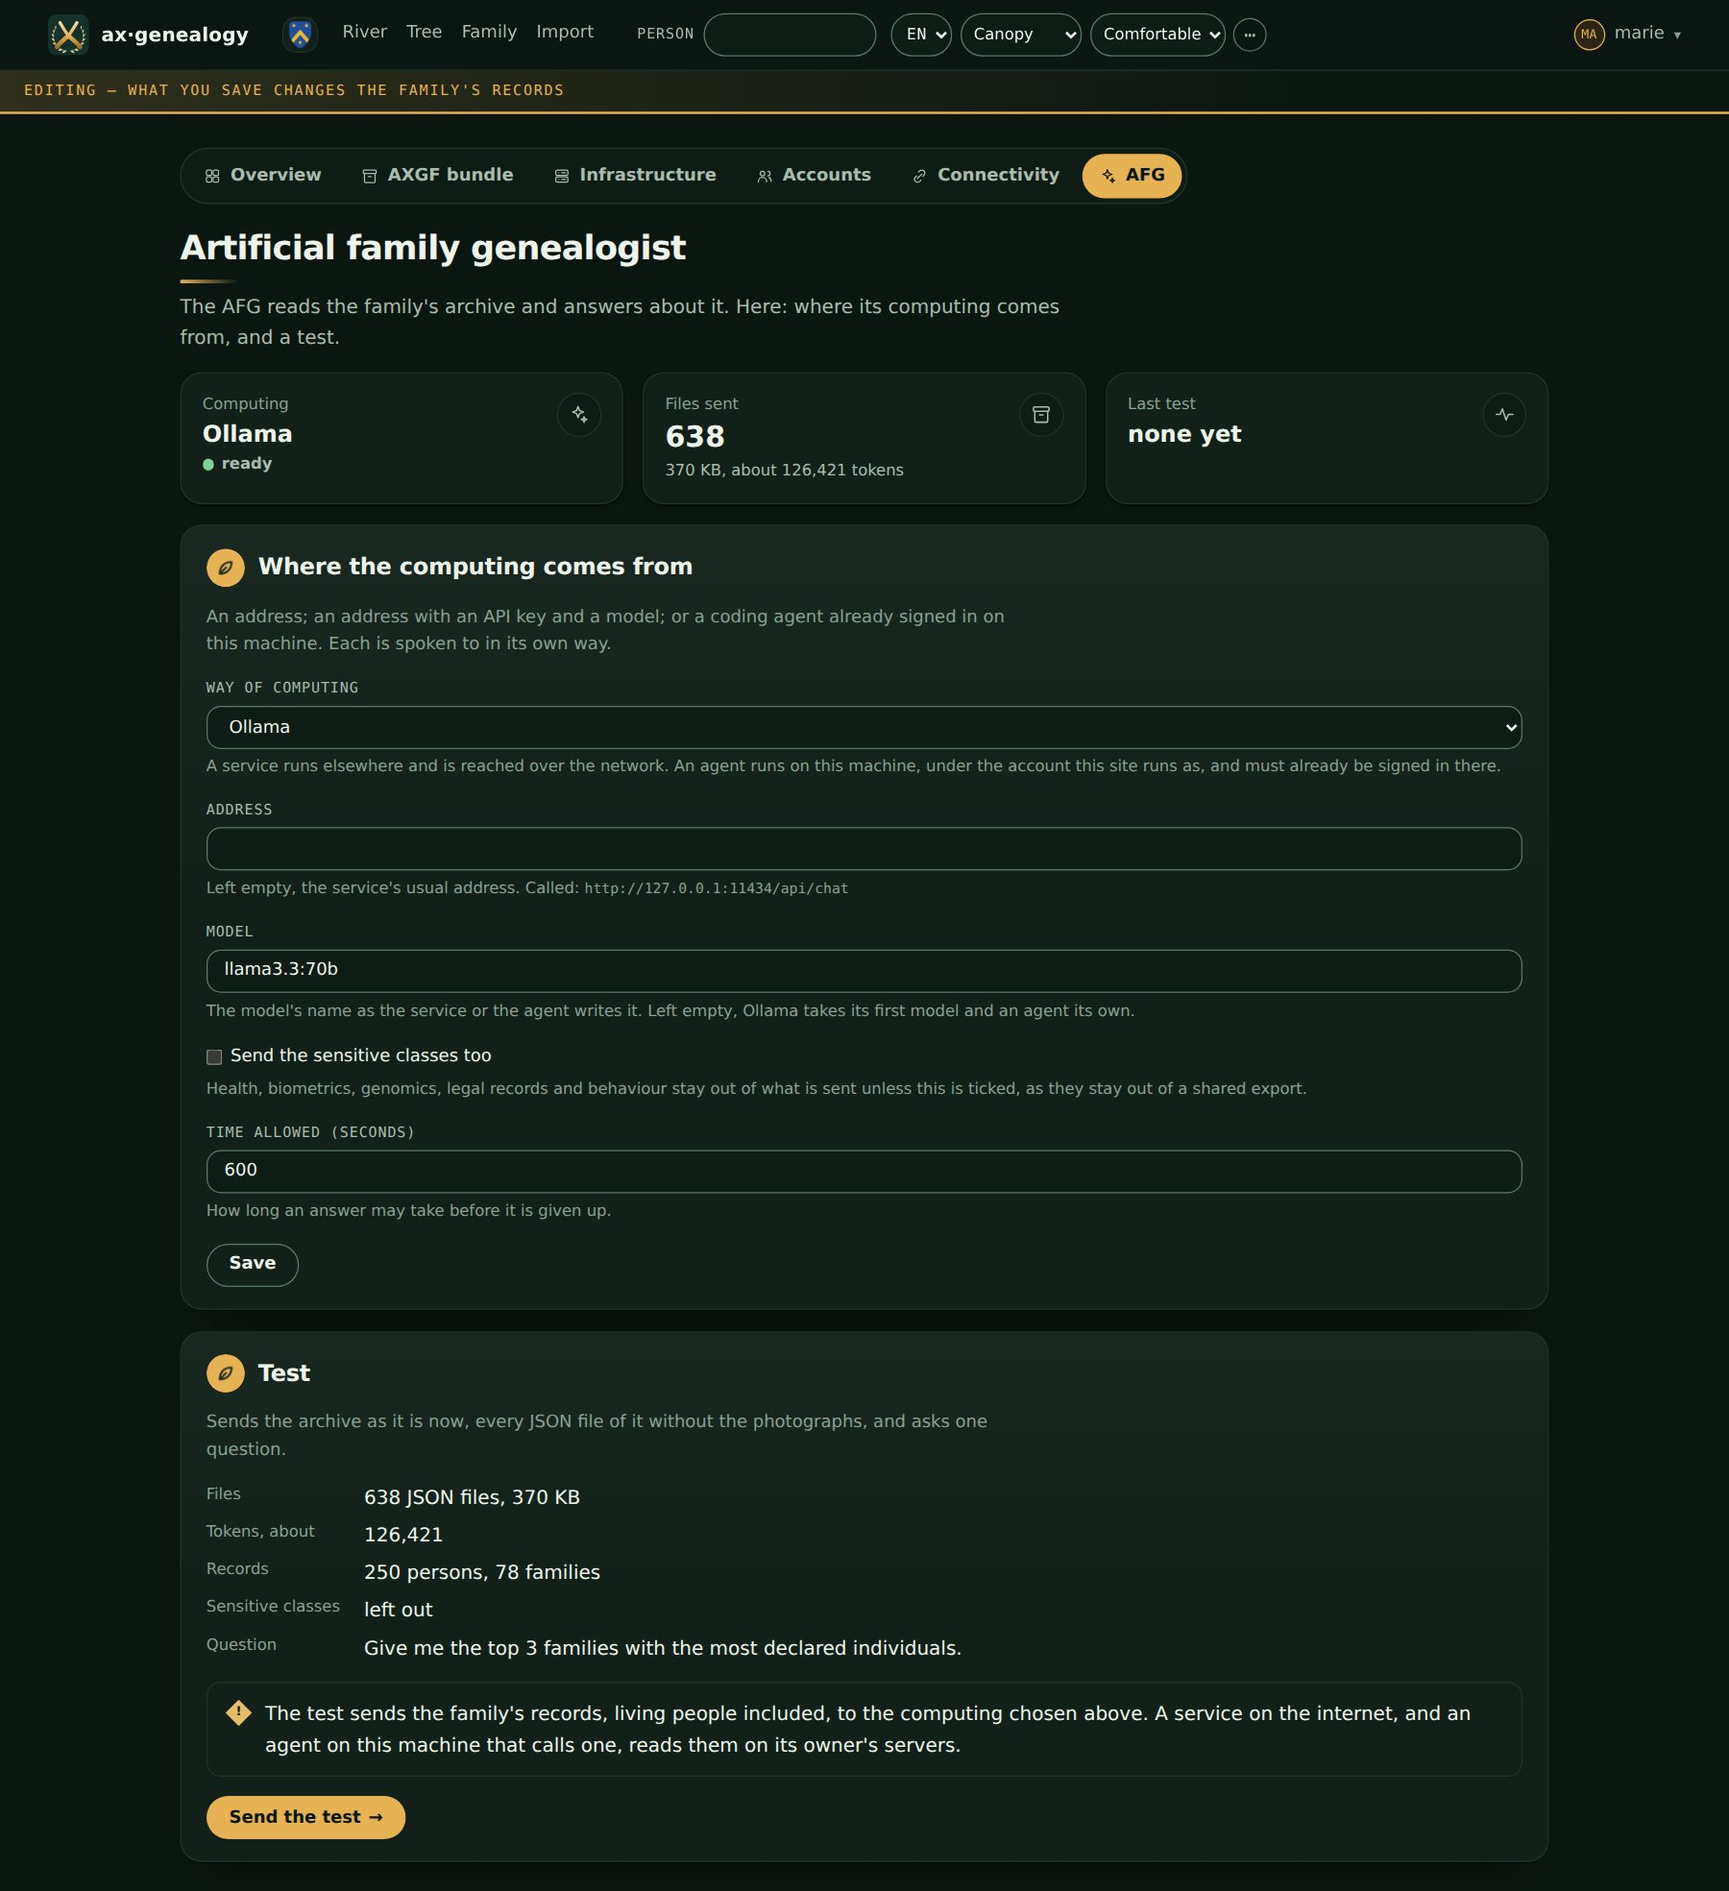
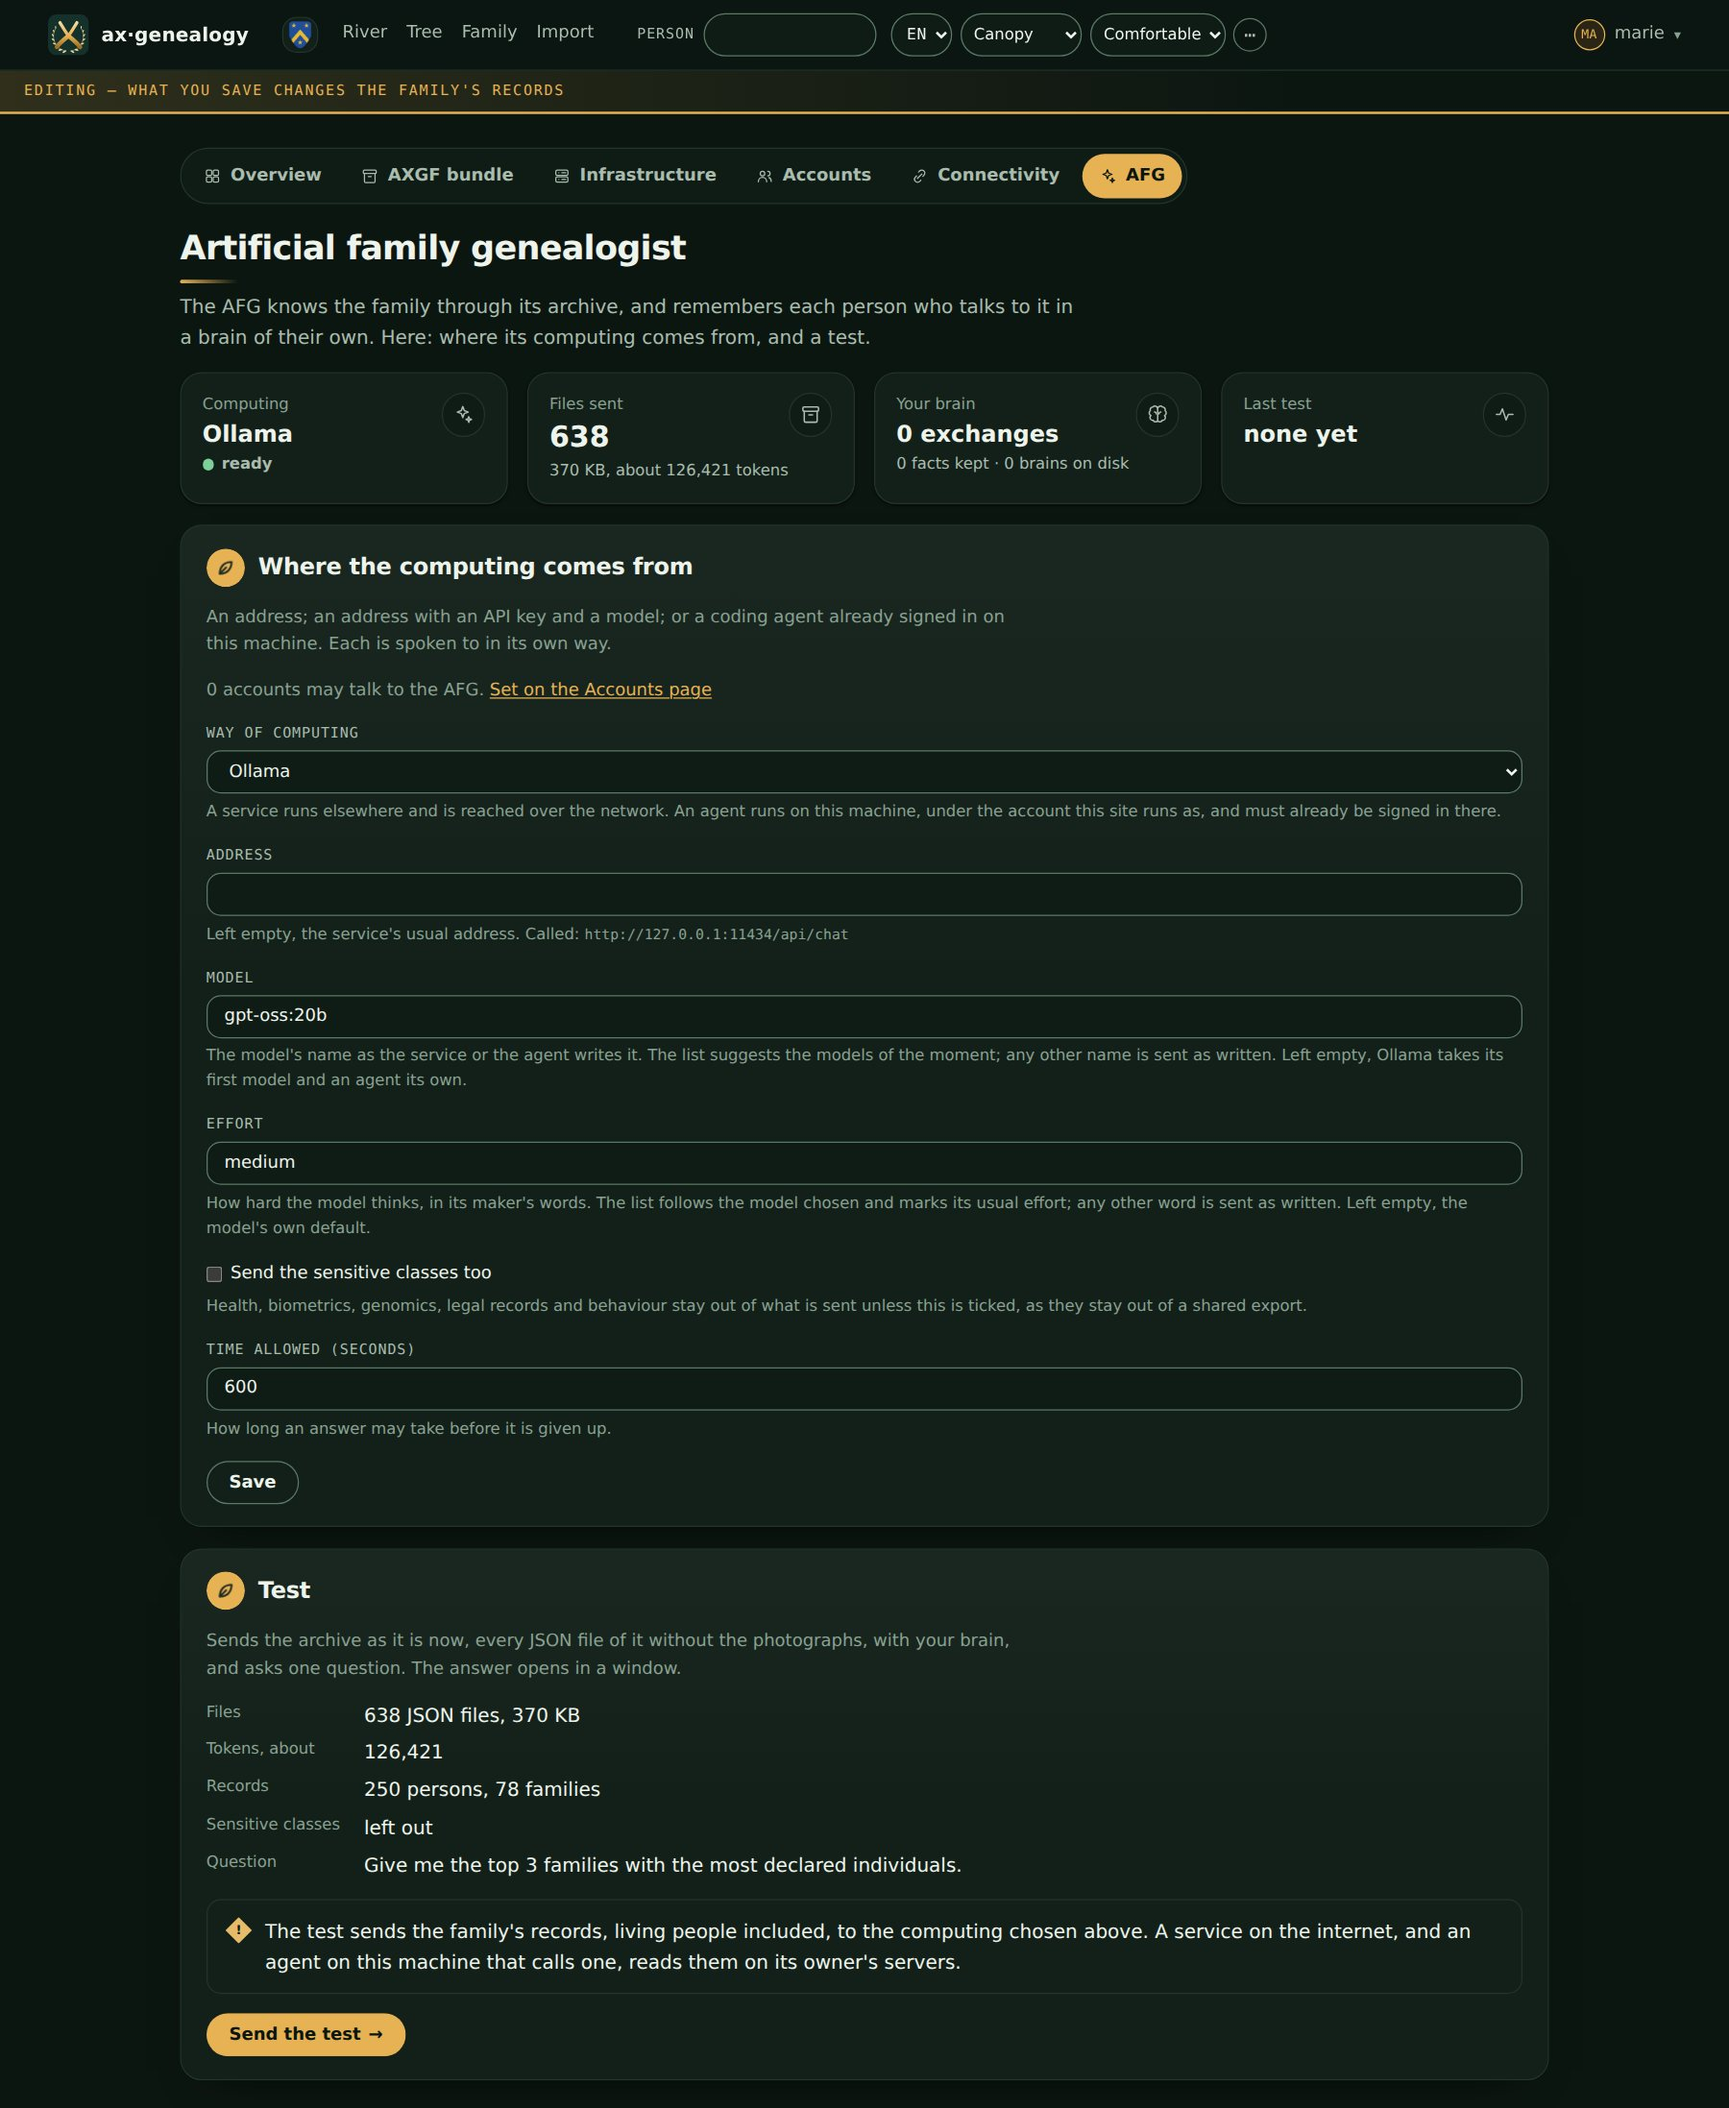
README: the AFG room's image shows the effort and its suggestions
The form now shows the effort for Ollama too (docs/adr/0025): the image is
taken again on a copy of the fictional demonstration, gpt-oss:20b at
medium, and its description says so. Checked at 390 px in English and
Arabic and at 1440 px in Chinese: no horizontal scroll, no script error.

diff --git a/README.md b/README.md
@@ -478,7 +478,7 @@ AFG room, and tests it. The second part will bring it to the pages, one use
 at a time.
 
 <p align="center">
-<a href="docs/screenshots/afg-room.jpg"><img src="docs/screenshots/afg-room.jpg" width="720" alt="The AFG room under Canopy. Three tiles: computing, Ollama, ready; 638 files sent, 370 KB, about 126,421 tokens; last test, none yet. Below, the form: the way of computing set to Ollama, its address left empty with the address it calls written underneath, a model, the box for the sensitive classes and the time allowed. Then the test: what it sends (638 JSON files, 250 persons and 78 families, the sensitive classes left out, the question), the warning that living people's records are sent too, and the button."></a>
+<a href="docs/screenshots/afg-room.jpg"><img src="docs/screenshots/afg-room.jpg" width="720" alt="The AFG room under Canopy. Three tiles: computing, Ollama, ready; 638 files sent, 370 KB, about 126,421 tokens; last test, none yet. Below, the form: the way of computing set to Ollama, its address left empty with the address it calls written underneath, a model (gpt-oss:20b) and its effort (medium), each with its list of suggestions, the box for the sensitive classes and the time allowed. Then the test: what it sends (638 JSON files, 250 persons and 78 families, the sensitive classes left out, the question), the warning that living people's records are sent too, and the button."></a>
 </p>
 
 There are five ways, and each is spoken to in its own way:
